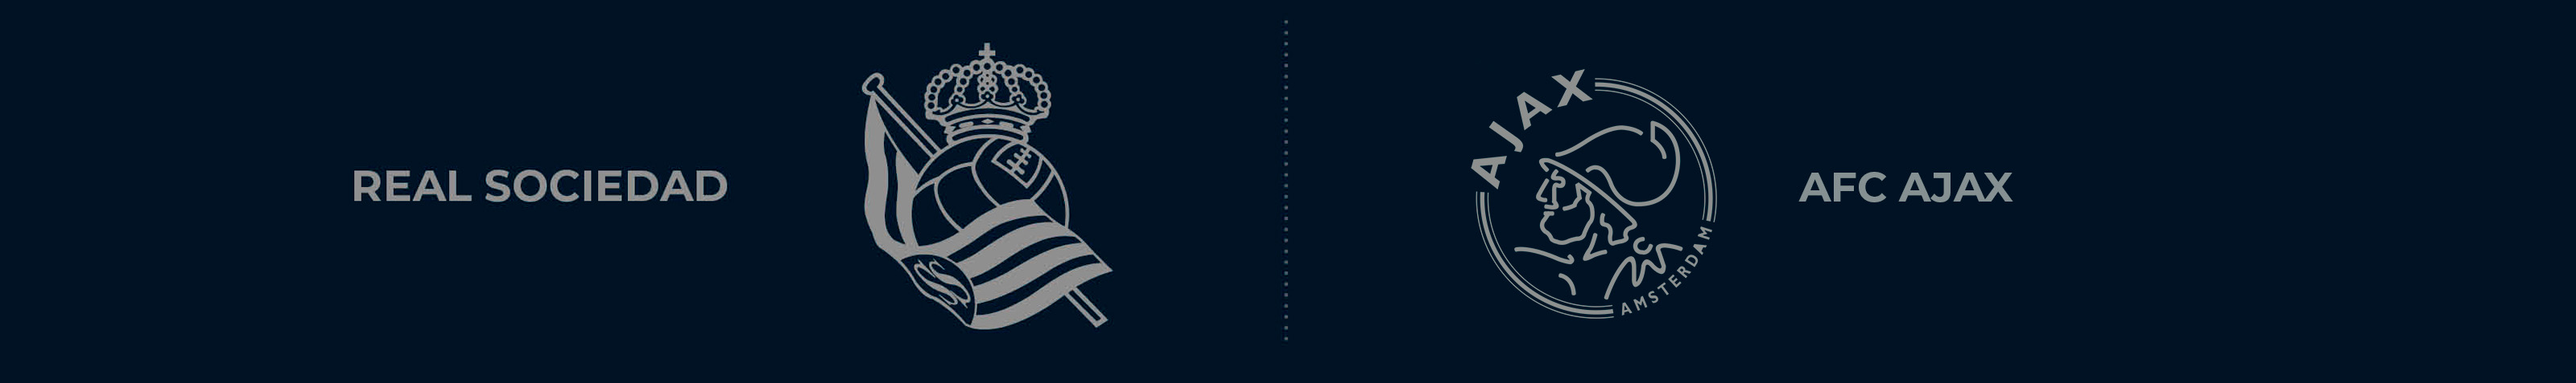
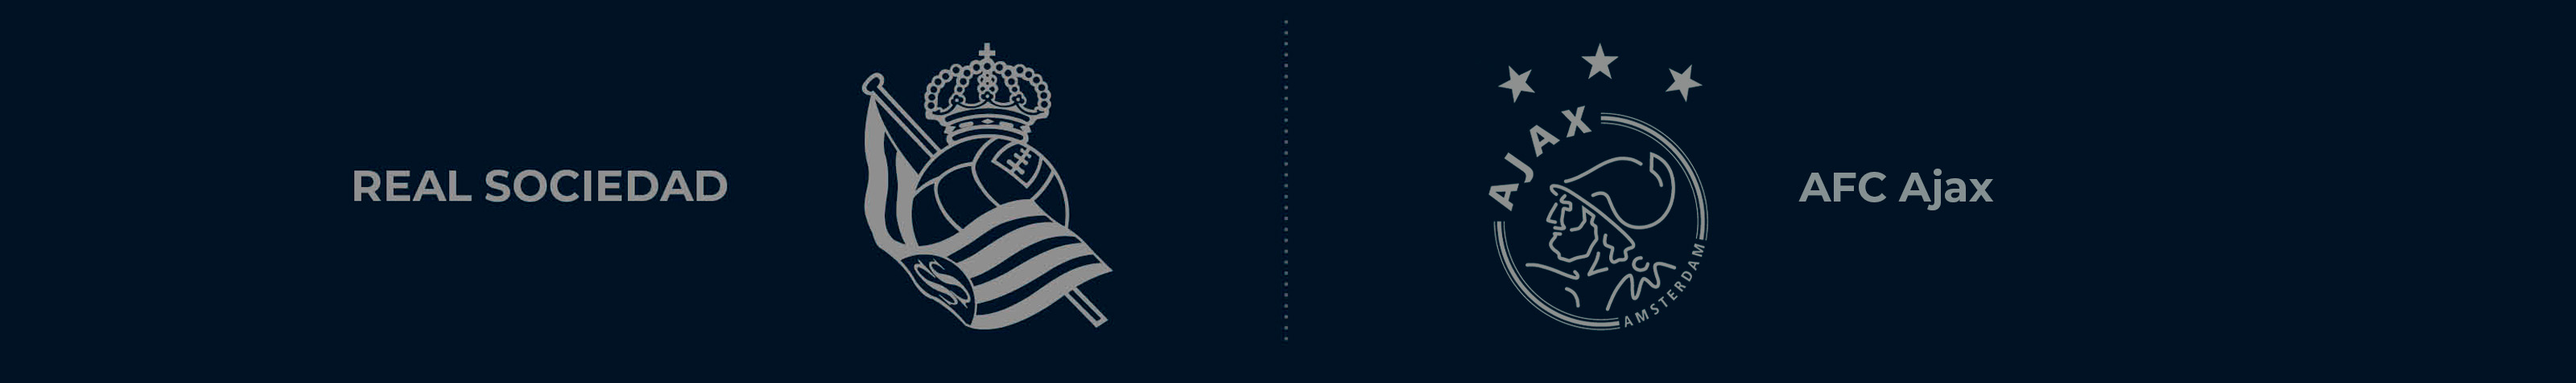
Ajax header

Changed region(s): [[0.5625, 0.1468, 0.6875, 0.8512], [0.75, 0.4403, 0.7812, 0.5283]]

diff --git a/css/style.css b/css/style.css
@@ -148,7 +148,7 @@ body._lock {
 	align-items: center;
 	justify-content: space-between;
 	min-height: 70px;
-	background-image: url("../Material/CABECERA\ MENU-Athletic\ Club\ F.jpg");
+	background-image: url("../Material/CABECERA\ UEL-ajax.jpg");
 }
 .header__logo {
 	border-radius: 50%;
@@ -636,7 +636,7 @@ body._touch .menu__list > li._active .menu__arrow {
 		top: 0;
 		left: 0;
 		height: 70px;
-		background-image: url('../Material/CABECERA\ MENU-Athletic\ Club\ F.jpg');
+		background-image: url('../Material/CABECERA\ UEL-ajax.jpg');
 		
 		background-repeat: no-repeat;
 		background-size: 80%;
